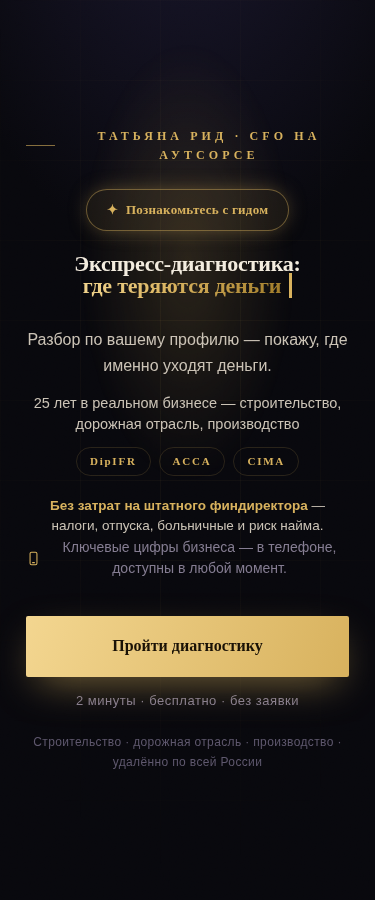
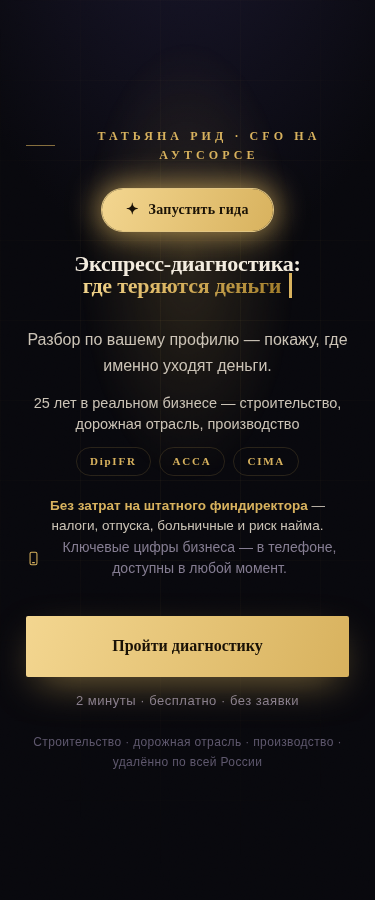
Make hero guide button bold: solid gold pill with glow + gentle pulse
The text-style '✦ Познакомьтесь с гидом' link was easy to miss. Turn it into
a prominent call-to-action within the finance-noir palette (dark + gold, no
foreign colours):
- solid gold gradient fill with dark text (matches the primary CTA)
- thin bright-gold ring + soft breathing glow so it stands out on the dark hero
- gentle pulse (2.6s); hidden entirely under prefers-reduced-motion (the guide
  is disabled there), so no animation for reduced-motion users
- clearer label '✦ Запустить гида'
Layout verified at 320/375/1280: no overflow, ~24px gap from the credential
line and ~22px to the headline, 42px tap target, no overlap.

Changed region(s): [[0.2347, 0.1867, 0.7627, 0.28]]

diff --git a/index.html b/index.html
@@ -437,15 +437,18 @@
   #guide.e-wave .g-arm::after{content:"👋"}
   @keyframes wave{0%,100%{transform:rotate(-28deg)}50%{transform:rotate(22deg)}}
   /* приглашение запустить гида — явная кликабельная плашка, а не декор */
-  .waker{display:inline-flex;align-items:center;gap:8px;cursor:pointer;margin:0 auto 22px;
-    font-family:'Manrope';font-weight:600;font-size:13px;letter-spacing:.02em;color:var(--gold);
-    background:rgba(216,178,94,.08);border:1px solid rgba(216,178,94,.45);border-radius:30px;
-    padding:12px 20px;transition:transform .25s,border-color .25s,background .25s;
-    animation:wpulse 2.8s ease-in-out infinite}
-  .waker:hover{border-color:var(--gold);background:rgba(216,178,94,.15);transform:translateY(-2px)}
-  .waker:focus-visible{outline:2px solid var(--gold);outline-offset:3px}
-  .waker-spark{font-size:13px;line-height:1}
-  @keyframes wpulse{0%,100%{box-shadow:0 0 0 0 rgba(216,178,94,0)}50%{box-shadow:0 0 22px -6px rgba(216,178,94,.55)}}
+  .waker{display:inline-flex;align-items:center;gap:9px;cursor:pointer;margin:0 auto 22px;
+    font-family:'Manrope';font-weight:700;font-size:14px;letter-spacing:.02em;color:#1a1206;
+    background:linear-gradient(110deg,var(--gold-bright),var(--gold));border:0;border-radius:30px;
+    padding:13px 24px;transition:transform .25s,box-shadow .25s;
+    box-shadow:0 0 0 1px rgba(243,214,144,.6),0 8px 28px -8px rgba(216,178,94,.7);
+    animation:wpulse 2.6s ease-in-out infinite}
+  .waker:hover{transform:translateY(-2px)}
+  .waker:focus-visible{outline:2px solid var(--cream);outline-offset:3px}
+  .waker-spark{font-size:15px;line-height:1}
+  @keyframes wpulse{
+    0%,100%{box-shadow:0 0 0 1px rgba(243,214,144,.5),0 0 18px -2px rgba(216,178,94,.45)}
+    50%{box-shadow:0 0 0 1px rgba(243,214,144,.9),0 0 32px 4px rgba(216,178,94,.78)}}
 
   /* ===== БРЕНД: персона, регалии, специализация ===== */
   .hero-cred{display:flex;flex-direction:column;align-items:center;gap:11px;margin:2px auto 20px}
@@ -509,8 +512,8 @@
       Татьяна Рид · CFO на аутсорсе
     </div>
     <button class="waker" id="waker" type="button"
-      aria-label="Познакомьтесь с гидом — покажу, где теряются деньги">
-      <span class="waker-spark" aria-hidden="true">✦</span> Познакомьтесь с гидом
+      aria-label="Запустить гида — покажет, где теряются деньги">
+      <span class="waker-spark" aria-hidden="true">✦</span> Запустить гида
     </button>
     <h1>Экспресс-диагностика:<br><span class="type gold-text" id="type"></span></h1>
     <p class="hero-sub">Разбор по вашему профилю — покажу, где именно уходят деньги.</p>
